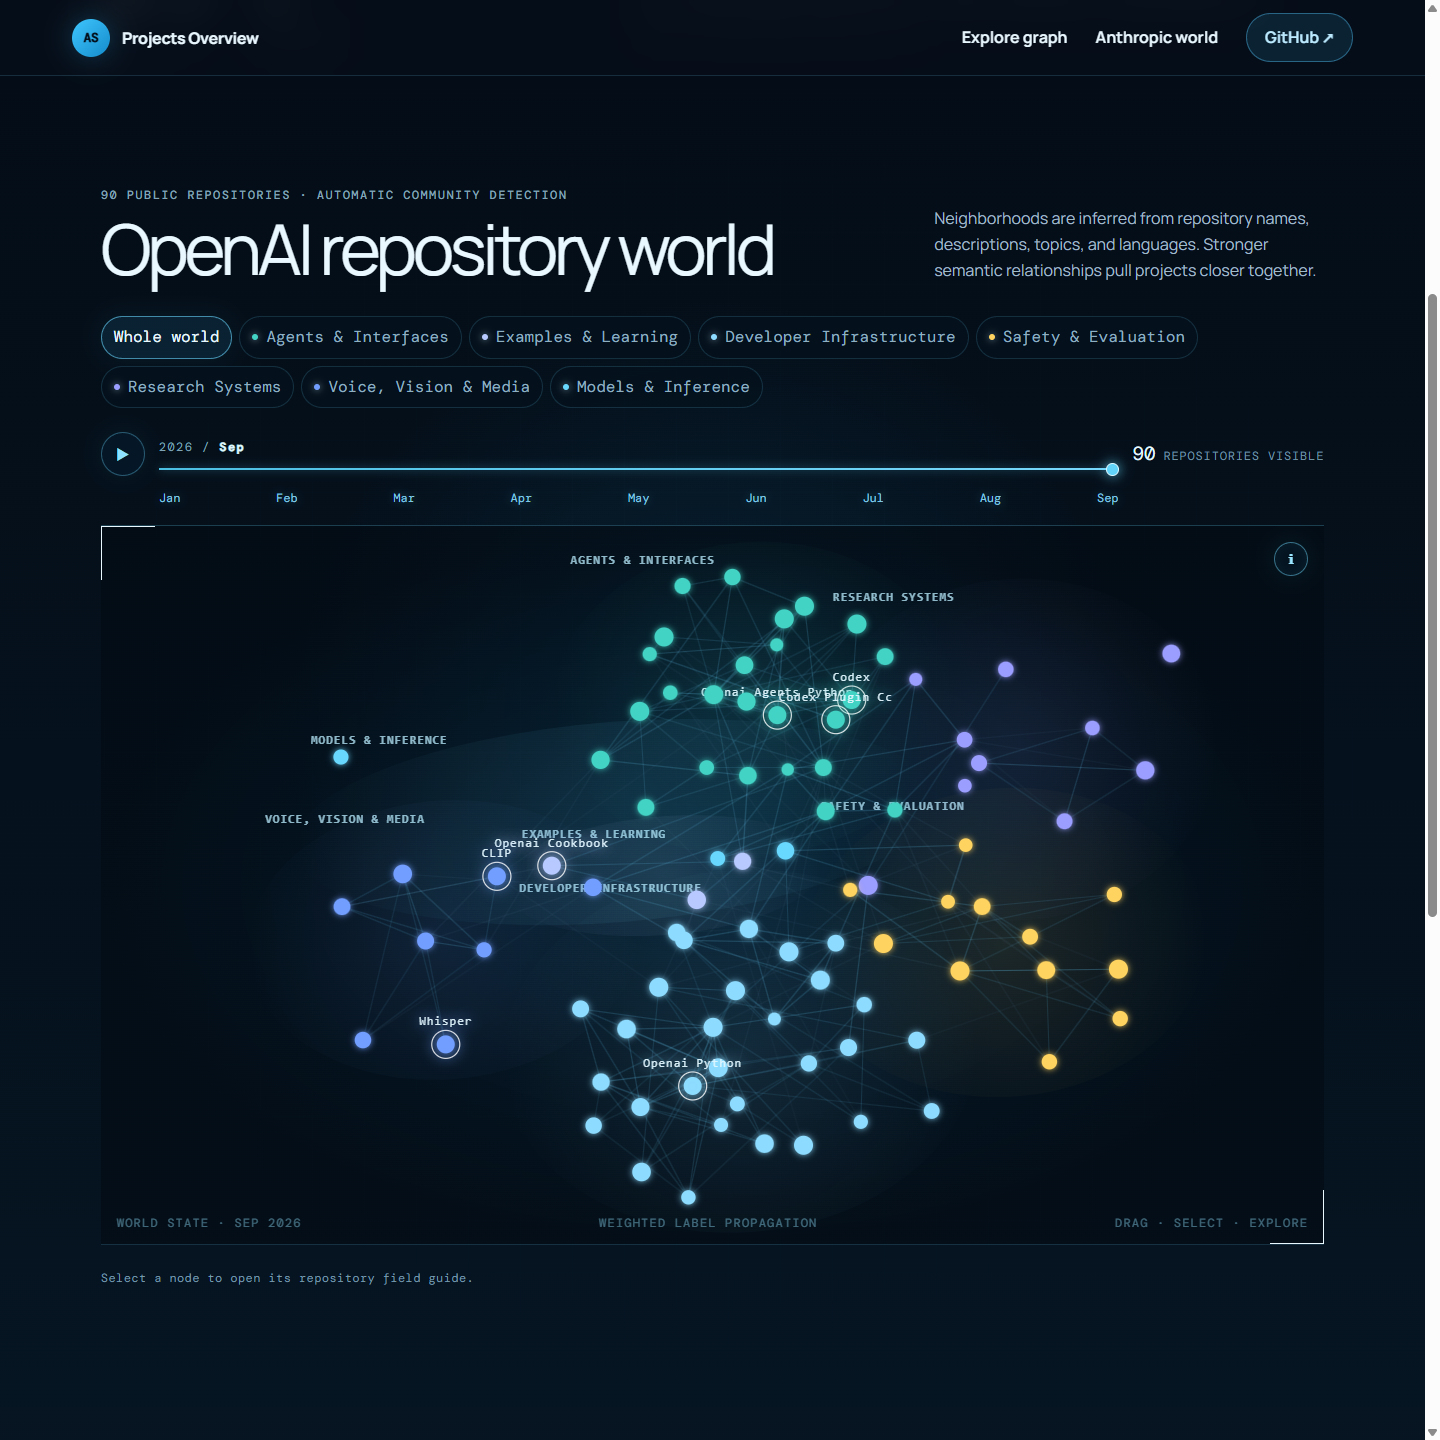
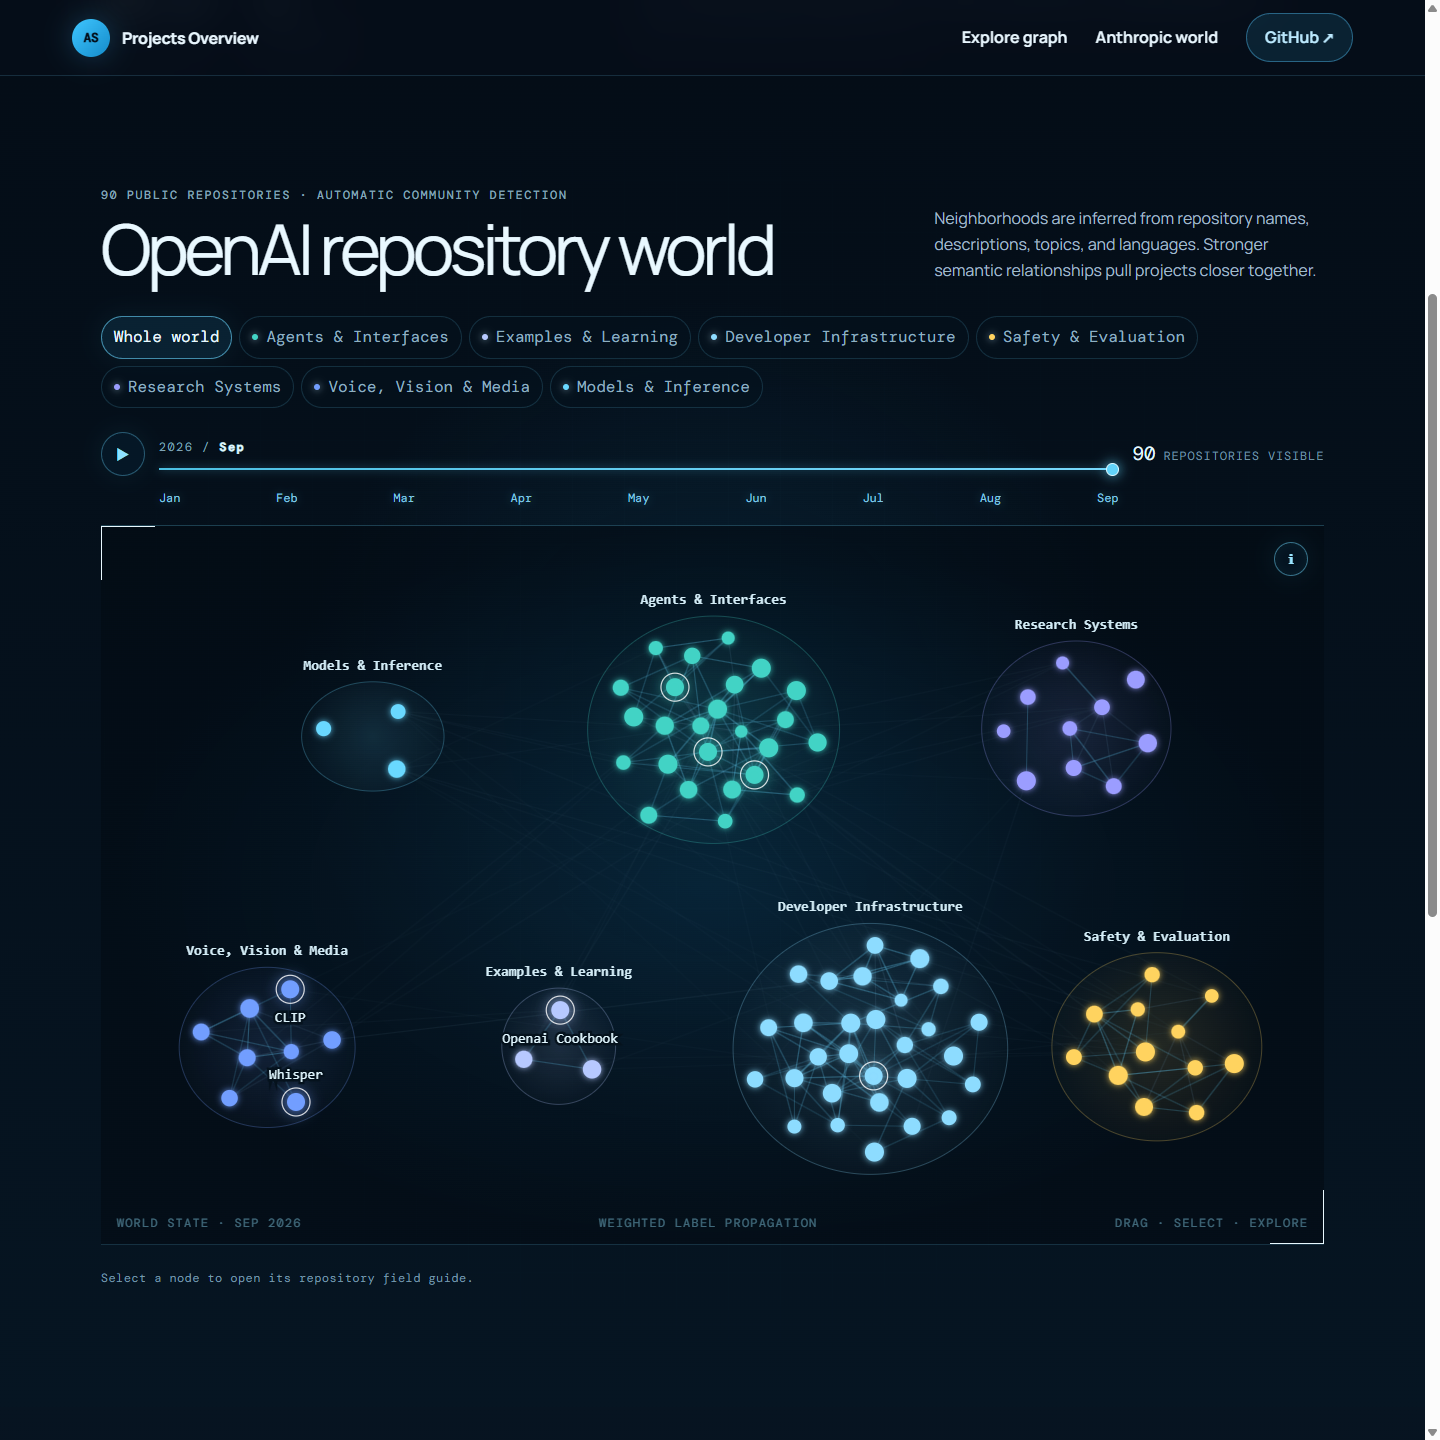
Tighten repository communities and clarify graph labels

diff --git a/app/repository-world.tsx b/app/repository-world.tsx
@@ -19,10 +19,10 @@ const neighborhoodColors:Record<string,string> = {
   developer:"#8ddcff", multimodal:"#729eff", learning:"#b7c9ff",
 };
 const centers:Record<string,[number,number]> = {
-  brains:[.25,.28], kids:[.74,.25], earth:[.82,.55], ai:[.63,.76],
-  tools:[.36,.75], toys:[.48,.48], ridiculous:[.12,.59],
-  models:[.22,.26], agents:[.52,.22], research:[.78,.3], safety:[.82,.64],
-  developer:[.53,.76], multimodal:[.22,.68], learning:[.48,.49],
+  brains:[.2,.28], kids:[.8,.28], earth:[.87,.73], ai:[.63,.73],
+  tools:[.37,.73], toys:[.5,.28], ridiculous:[.13,.73],
+  models:[.2,.28], agents:[.5,.28], research:[.8,.28], safety:[.87,.73],
+  developer:[.63,.73], multimodal:[.13,.73], learning:[.37,.73],
 };
 const monthNames=["Jan","Feb","Mar","Apr","May","Jun","Jul","Aug","Sep","Oct","Nov","Dec"];
 const constellationTours = [
@@ -168,43 +168,71 @@ export default function RepositoryWorld({projects,heading="The repository world"
     const inTour=(node:GraphNode)=>!tourNames.length||tourNames.includes(node.name);
     const cumulative=(node:GraphNode)=>node.months.slice(0,month).reduce((sum,value)=>sum+value,0);
     const nodeRadius=(node:GraphNode)=>node.featured?9:5.5+Math.min(4,node.stars===undefined?Math.sqrt(cumulative(node))*.28:Math.log10(node.stars+1)*1.1);
-    const projectPoint=(node:GraphNode)=>({x:node.x/1000*width,y:node.y/650*height});
+    const neighborhoodOrder=Object.keys(centers).filter(id=>categories.some(category=>category.id===id));
+    const largestNeighborhood=[...neighborhoodOrder].sort((a,b)=>nodes.filter(node=>node.category===b).length-nodes.filter(node=>node.category===a).length)[0];
+    const mobileOrder=[largestNeighborhood,...neighborhoodOrder.filter(id=>id!==largestNeighborhood)];
+    const mobileExtents=new Map<string,number>();
+    const mobileAnchor=(category:string)=>{
+      const index=mobileOrder.indexOf(category);
+      const row=index===0?0:Math.floor((index-1)/2)+1;
+      const rows=1+Math.ceil((mobileOrder.length-1)/2);
+      return {x:width*(index===0?.5:index%2===1?.25:.75),y:60+(row+.5)*(height-100)/rows};
+    };
+    const mobileScale=(category:string)=>Math.min(.85,(width/(category===largestNeighborhood?2:4)-30)/(mobileExtents.get(category)||100));
+    const projectPoint=(node:GraphNode)=>{
+      if(width>=700)return {x:node.x/1000*width,y:node.y/650*height};
+      const [cx,cy]=centers[node.category]||[.5,.5],anchor=mobileAnchor(node.category),scale=mobileScale(node.category);
+      return {x:anchor.x+(node.x-cx*1000)*scale,y:anchor.y+(node.y-cy*650)*scale};
+    };
     const tick=()=>{
-      if(!reduceMotion) {
         nodes.forEach((node,index)=>{
           if(index===drag) return;
           const [cx,cy]=centers[node.category]||[.5,.5];
-          node.vx+=(cx*1000-node.x)*.00052; node.vy+=(cy*650-node.y)*.00052;
+          node.vx+=(cx*1000-node.x)*.004; node.vy+=(cy*650-node.y)*.004;
           if(easterEgg){node.vx+=Math.sin(performance.now()*.006+index)*.12;node.vy+=Math.cos(performance.now()*.007+index*1.7)*.12;}
         });
         for(let a=0;a<nodes.length;a++) for(let b=a+1;b<nodes.length;b++) {
           if(!visible(nodes[a])||!visible(nodes[b])) continue;
           const dx=nodes[b].x-nodes[a].x,dy=nodes[b].y-nodes[a].y,distance=Math.max(18,Math.hypot(dx,dy));
-          if(distance<115){const force=(115-distance)*.0018;nodes[a].vx-=dx/distance*force;nodes[a].vy-=dy/distance*force;nodes[b].vx+=dx/distance*force;nodes[b].vy+=dy/distance*force;}
+          if(distance<76){const force=(76-distance)*.004;nodes[a].vx-=dx/distance*force;nodes[a].vy-=dy/distance*force;nodes[b].vx+=dx/distance*force;nodes[b].vy+=dy/distance*force;}
         }
         graph.edges.forEach(edge=>{
           const a=nodes[edge.source],b=nodes[edge.target]; if(!visible(a)||!visible(b)) return;
-          const dx=b.x-a.x,dy=b.y-a.y,distance=Math.max(1,Math.hypot(dx,dy)); const desired=68+Math.max(0,42-edge.weight*6);
-          const force=(distance-desired)*.00038*Math.min(edge.weight,5); a.vx+=dx/distance*force;a.vy+=dy/distance*force;b.vx-=dx/distance*force;b.vy-=dy/distance*force;
+          const dx=b.x-a.x,dy=b.y-a.y,distance=Math.max(1,Math.hypot(dx,dy)); const desired=44+Math.max(0,28-edge.weight*4);
+          // Bridges remain visible without dragging separate neighborhoods together.
+          const strength=a.category===b.category?.0006:.000015;
+          const force=(distance-desired)*strength*Math.min(edge.weight,5); a.vx+=dx/distance*force;a.vy+=dy/distance*force;b.vx-=dx/distance*force;b.vy-=dy/distance*force;
         });
         nodes.forEach((node,index)=>{if(index!==drag){node.vx*=.9;node.vy*=.9;node.x=Math.max(35,Math.min(965,node.x+node.vx));node.y=Math.max(35,Math.min(615,node.y+node.vy));}});
-      }
     };
     const draw=()=>{
       context.clearRect(0,0,width,height);
+      const labels:{left:number;right:number;top:number;bottom:number}[]=[];
       categories.forEach(category=>{
         if(active!=="all"&&active!==category.id) return;
-        const group=nodes.filter(node=>node.category===category.id); if(!group.length)return;
+        const group=nodes.filter(node=>node.category===category.id&&visible(node)); if(!group.length)return;
         const points=group.map(projectPoint); const cx=points.reduce((sum,p)=>sum+p.x,0)/points.length,cy=points.reduce((sum,p)=>sum+p.y,0)/points.length;
-        const rx=Math.max(85,...points.map(p=>Math.abs(p.x-cx)+48)),ry=Math.max(58,...points.map(p=>Math.abs(p.y-cy)+35));
-        const gradient=context.createRadialGradient(cx,cy,0,cx,cy,Math.max(rx,ry)); gradient.addColorStop(0,`${neighborhoodColors[category.id]}18`);gradient.addColorStop(1,`${neighborhoodColors[category.id]}00`);
-        context.fillStyle=gradient;context.beginPath();context.ellipse(cx,cy,rx,ry,-.08,0,Math.PI*2);context.fill();
-        context.fillStyle="rgba(177,226,244,.8)";context.font="600 12px ui-monospace, monospace";context.letterSpacing="1px";context.fillText(category.title.toUpperCase(),cx-rx+18,cy-ry+22);
+        const rx=Math.max(42,...points.map(p=>Math.abs(p.x-cx)+22)),ry=Math.max(38,...points.map(p=>Math.abs(p.y-cy)+22));
+        const color=neighborhoodColors[category.id]||"#69d8ff";
+        const gradient=context.createRadialGradient(cx,cy,0,cx,cy,Math.max(rx,ry)); gradient.addColorStop(0,`${color}20`);gradient.addColorStop(1,`${color}05`);
+        context.fillStyle=gradient;context.strokeStyle=`${color}45`;context.lineWidth=1;context.beginPath();context.ellipse(cx,cy,rx,ry,0,0,Math.PI*2);context.fill();context.stroke();
+        context.fillStyle="#d4edf7";context.font="600 14px ui-monospace, monospace";context.letterSpacing="0px";context.textAlign="center";
+        const maxLabelWidth=width<700?width/(category.id===largestNeighborhood?1:2)-22:Math.min(260,width*.23);
+        const lines:string[]=[];
+        category.title.split(" ").forEach(word=>{
+          const last=lines.length-1;
+          if(last>=0&&context.measureText(`${lines[last]} ${word}`).width<=maxLabelWidth)lines[last]+=` ${word}`;
+          else lines.push(word);
+        });
+        const labelX=Math.max(maxLabelWidth/2+8,Math.min(width-maxLabelWidth/2-8,cx));
+        const labelY=Math.max(22,cy-ry-12-(lines.length-1)*19);
+        lines.forEach((line,index)=>context.fillText(line,labelX,labelY+index*19));
+        labels.push({left:labelX-maxLabelWidth/2,right:labelX+maxLabelWidth/2,top:labelY-16,bottom:labelY+(lines.length-1)*19+4});
       });
       graph.edges.forEach(edge=>{
         const a=nodes[edge.source],b=nodes[edge.target]; if(!visible(a)||!visible(b))return; const p1=projectPoint(a),p2=projectPoint(b);
         const incident=selectedIndex===edge.source||selectedIndex===edge.target;
-        context.strokeStyle=incident?"rgba(151,231,255,.72)":tourNames.length&&(!inTour(a)||!inTour(b))?"rgba(100,150,180,.025)":a.community===b.community?"rgba(104,211,255,.18)":"rgba(111,157,188,.09)";context.lineWidth=incident?1.8:Math.min(1.6,.35+edge.weight*.15);context.beginPath();context.moveTo(p1.x,p1.y);context.lineTo(p2.x,p2.y);context.stroke();
+        context.strokeStyle=incident?"rgba(151,231,255,.72)":tourNames.length&&(!inTour(a)||!inTour(b))?"rgba(100,150,180,.025)":a.category!==b.category?"rgba(111,157,188,.045)":a.community===b.community?"rgba(104,211,255,.3)":"rgba(111,157,188,.18)";context.lineWidth=incident?1.8:Math.min(1.6,.35+edge.weight*.15);context.beginPath();context.moveTo(p1.x,p1.y);context.lineTo(p2.x,p2.y);context.stroke();
       });
       if(tourNames.length){
         const route=tourNames.map(name=>nodes.find(node=>node.name===name)).filter(Boolean) as GraphNode[];
@@ -217,20 +245,44 @@ export default function RepositoryWorld({projects,heading="The repository world"
         if(chosen){context.strokeStyle="rgba(226,249,255,.95)";context.lineWidth=1.5;context.beginPath();context.arc(point.x,point.y,radius+10+Math.sin(performance.now()*.005)*2,0,Math.PI*2);context.stroke();}
         if(activeNow){const pulse=radius+7+(Math.sin(performance.now()*.004+index)*.5+.5)*7;context.strokeStyle=`${color}${highlighted?"aa":"58"}`;context.lineWidth=1;context.beginPath();context.arc(point.x,point.y,pulse,0,Math.PI*2);context.stroke();}
         if(node.featured){context.strokeStyle="rgba(255,255,255,.82)";context.lineWidth=1.2;context.beginPath();context.arc(point.x,point.y,radius+5,0,Math.PI*2);context.stroke();}
-        if(highlighted||node.featured){context.fillStyle="rgba(225,247,255,.95)";context.font=`${highlighted?14:12}px ui-monospace, monospace`;context.textAlign="center";context.fillText(node.title,point.x,point.y-radius-10);}
         if(easterEgg){const eye=radius*.48+2;context.shadowBlur=0;context.fillStyle="#f4fbff";[-1,1].forEach(side=>{context.beginPath();context.arc(point.x+side*eye*.72,point.y-eye*.35,eye,0,Math.PI*2);context.fill();context.fillStyle="#071421";context.beginPath();context.arc(point.x+side*eye*.72+Math.sin(performance.now()*.003+index)*eye*.25,point.y-eye*.25,eye*.38,0,Math.PI*2);context.fill();context.fillStyle="#f4fbff";});}
         context.restore();
       });
+      // Keep compact groups legible: show featured names only where they fit.
+      const namedNodes=nodes.filter((node,index)=>visible(node)&&(index===hover||index===drag||index===selectedIndex||(node.featured&&width>=700)));
+      namedNodes.sort((a,b)=>Number(b.name===nodes[hover]?.name)-Number(a.name===nodes[hover]?.name));
+      namedNodes.forEach(node=>{
+        const point=projectPoint(node),radius=nodeRadius(node),highlighted=node===nodes[hover]||node===nodes[drag]||node===nodes[selectedIndex];
+        if(!inTour(node)&&!highlighted)return;
+        context.font="14px ui-monospace, monospace";context.textAlign="center";
+        const labelWidth=context.measureText(node.title).width;
+        const x=Math.max(labelWidth/2+8,Math.min(width-labelWidth/2-8,point.x));
+        const positions=[point.y-radius-14,point.y+radius+24];
+        const y=positions.find(baseline=>{
+          const box={left:x-labelWidth/2-4,right:x+labelWidth/2+4,top:baseline-15,bottom:baseline+4};
+          if(box.top<4||box.bottom>height-36)return false;
+          if(labels.some(label=>box.left<label.right&&box.right>label.left&&box.top<label.bottom&&box.bottom>label.top))return false;
+          return !nodes.some(other=>{if(other===node||!visible(other))return false;const p=projectPoint(other),r=nodeRadius(other)+3;return p.x+r>box.left&&p.x-r<box.right&&p.y+r>box.top&&p.y-r<box.bottom;});
+        })??(highlighted?positions[0]:undefined);
+        if(y===undefined)return;
+        context.save();context.lineWidth=5;context.strokeStyle="#05121d";context.strokeText(node.title,x,y);context.fillStyle="#e1f7ff";context.fillText(node.title,x,y);context.restore();
+        labels.push({left:x-labelWidth/2-4,right:x+labelWidth/2+4,top:y-15,bottom:y+4});
+      });
     };
-    const animate=()=>{tick();draw();frame=inView&&!reduceMotion?requestAnimationFrame(animate):0;};
+    // Settle before the first paint, including when animation is disabled.
+    for(let iteration=0;iteration<220;iteration++)tick();
+    nodes.forEach(node=>{const [cx]=centers[node.category]||[.5,.5];mobileExtents.set(node.category,Math.max(mobileExtents.get(node.category)||0,Math.abs(node.x-cx*1000)));});
+    const animate=()=>{if(!reduceMotion)tick();draw();frame=inView&&!reduceMotion?requestAnimationFrame(animate):0;};
     const closest=(x:number,y:number)=>{let result=-1,best=26;nodes.forEach((node,index)=>{if(!visible(node))return;const p=projectPoint(node),distance=Math.hypot(p.x-x,p.y-y);if(distance<best&&distance<nodeRadius(node)+13){best=distance;result=index;}});return result;};
     const position=(event:PointerEvent)=>{const rect=canvas.getBoundingClientRect();pointer.x=event.clientX-rect.left;pointer.y=event.clientY-rect.top;};
-    const move=(event:PointerEvent)=>{position(event);if(drag>=0){moved=true;nodes[drag].x=pointer.x/width*1000;nodes[drag].y=pointer.y/height*650;nodes[drag].vx=0;nodes[drag].vy=0;}hover=closest(pointer.x,pointer.y);canvas.style.cursor=hover>=0?drag>=0?"grabbing":"grab":"crosshair";if(reduceMotion)draw();};
+    const move=(event:PointerEvent)=>{position(event);if(drag>=0){moved=true;const node=nodes[drag];if(width<700){const [cx,cy]=centers[node.category]||[.5,.5],anchor=mobileAnchor(node.category),scale=mobileScale(node.category);node.x=cx*1000+(pointer.x-anchor.x)/scale;node.y=cy*650+(pointer.y-anchor.y)/scale;}else{node.x=pointer.x/width*1000;node.y=pointer.y/height*650;}node.vx=0;node.vy=0;}hover=closest(pointer.x,pointer.y);canvas.style.cursor=hover>=0?drag>=0?"grabbing":"grab":"crosshair";if(reduceMotion)draw();};
     const down=(event:PointerEvent)=>{position(event);drag=closest(pointer.x,pointer.y);moved=false;if(drag>=0){canvas.setPointerCapture(event.pointerId);canvas.style.cursor="grabbing";}};
     const up=(event:PointerEvent)=>{if(drag>=0&&!moved)setSelected(nodes[drag]);drag=-1;if(canvas.hasPointerCapture(event.pointerId))canvas.releasePointerCapture(event.pointerId);};
+    const cancel=()=>{drag=-1;hover=-1;};
+    const leave=()=>{hover=-1;if(reduceMotion)draw();};
     const observer=new ResizeObserver(()=>{resize();draw();}); const visibility=new IntersectionObserver(([entry])=>{inView=entry.isIntersecting;if(inView&&!frame)animate();else if(!inView&&frame){cancelAnimationFrame(frame);frame=0;}},{rootMargin:"100px"});
-    observer.observe(canvas);visibility.observe(canvas);resize();animate();canvas.addEventListener("pointermove",move);canvas.addEventListener("pointerdown",down);canvas.addEventListener("pointerup",up);canvas.addEventListener("pointerleave",()=>{hover=-1;});
-    return()=>{cancelAnimationFrame(frame);observer.disconnect();visibility.disconnect();canvas.removeEventListener("pointermove",move);canvas.removeEventListener("pointerdown",down);canvas.removeEventListener("pointerup",up);};
+    observer.observe(canvas);visibility.observe(canvas);resize();animate();canvas.addEventListener("pointermove",move);canvas.addEventListener("pointerdown",down);canvas.addEventListener("pointerup",up);canvas.addEventListener("pointercancel",cancel);canvas.addEventListener("pointerleave",leave);
+    return()=>{cancelAnimationFrame(frame);observer.disconnect();visibility.disconnect();canvas.removeEventListener("pointermove",move);canvas.removeEventListener("pointerdown",down);canvas.removeEventListener("pointerup",up);canvas.removeEventListener("pointercancel",cancel);canvas.removeEventListener("pointerleave",leave);};
   },[active,categories,easterEgg,graph,month,selectedIndex,tourNames]);
 
   return <section className="repositoryWorld section" id="world">
@@ -252,7 +304,7 @@ export default function RepositoryWorld({projects,heading="The repository world"
         <ol>
           <li><b>Connect.</b><span>Names and descriptions become semantic signals. Shared ideas, technology, and project-family names create weighted links.</span></li>
           <li><b>Detect.</b><span>Repositories repeatedly adopt the strongest neighboring community through weighted label propagation. The seven editorial categories provide only a light prior.</span></li>
-          <li><b>Settle.</b><span>Related projects attract, all projects repel, and neighborhood gravity keeps the world readable as the graph moves.</span></li>
+          <li><b>Settle.</b><span>Each colored neighborhood gathers around its own center. Stronger links bring related projects closer within a group; faint bridges connect ideas across groups.</span></li>
         </ol>
         <div><span><i className="methodNode"/>Node size = {projects.some(project=>project.stars!==undefined)?"GitHub stars":`${year} commits`}</span><span><i className="methodRing"/>Ring = featured project</span><span><i className="methodLink"/>Line = inferred relationship</span></div>
       </aside>

diff --git a/app/globals.css b/app/globals.css
@@ -308,6 +308,10 @@ body { font-size:1rem; line-height:1.5; }
 .worldMethod { max-height:calc(100% - 32px); overflow:auto; }
 .worldMethod li { grid-template-columns:24px 1fr; }
 .worldMethod li span { grid-column:2; }
+.worldStage canvas { touch-action:pan-y; }
+@media (max-width:780px) {
+  .worldStage { height:1120px; }
+}
 .drawerActivity>div:first-child { flex-wrap:wrap; gap:8px; }
 .commitTooltip { width:360px; max-width:90vw; }
 .commitBarItem .commitTooltip { display:none; }

diff --git a/README.md b/README.md
@@ -10,7 +10,7 @@ The September 20, 2026 snapshot contains **113 projects**: 102 public repositori
 
 ## A world of connected projects
 
-Seven thematic neighborhoods connect projects through shared ideas, technologies, and purpose. Drag nodes, select a repository for its field guide, scrub through the year, or follow a guided constellation tour.
+Seven compact thematic neighborhoods connect projects through shared ideas, technologies, and purpose. Clear group outlines and faint bridges make the communities easier to distinguish; on phones, the largest group gets its own row. Drag nodes, select a repository for its field guide, scrub through the year, or follow a guided constellation tour.
 
 [![The September repository world with neighborhood filters, nine-month timeline, and guided tours](public/readme/repository-world.png)](https://amyleesterling.github.io/projects-overview/#world)
 
@@ -34,7 +34,7 @@ Both demos were refreshed on **September 20, 2026** from public GitHub metadata.
 
 Node sizes reflect stars at capture time. The organization timelines filter by each repository’s **latest push month**; they do not represent commit histories or repository creation dates. These are independent examples built from public metadata, not official company sites.
 
-All screenshots above were captured from the September 20 static export. Click an image to explore its live page.
+Screenshots show the September 20 data snapshot, with graph and activity images updated on September 21. Click an image to explore its live page.
 
 ## Run and build
 
